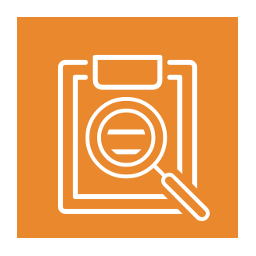
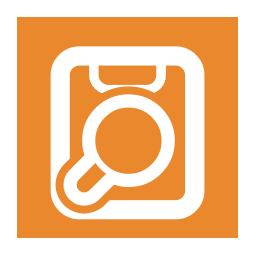
AppImage追加 アイコン変更

Changed region(s): [[0.1875, 0.1562, 0.8438, 0.875]]

diff --git a/ClipboardIndicator/About.xaml b/ClipboardIndicator/About.xaml
@@ -7,7 +7,6 @@
     xmlns:mc="http://schemas.openxmlformats.org/markup-compatibility/2006"
     Title="{Binding AssemblyName, Mode=OneWay, StringFormat=\{0\} のバージョン情報}"
     d:DataContext="{d:DesignInstance {x:Type local:ViewModel}}"
-    Icon="Resources/App.ico"
     ResizeMode="NoResize"
     SizeToContent="WidthAndHeight"
     mc:Ignorable="d">
@@ -87,7 +86,7 @@
                 <LineBreak />
                 <Run Text="使い方の詳しい情報は" />
                 <Hyperlink
-                    NavigateUri="https://tnlauncher.blogspot.jp/"
+                    NavigateUri="https://github.com/TN8001/ClipboardIndicator/"
                     RequestNavigate="Hyperlink_RequestNavigate"
                     ToolTip="{Binding NavigateUri, RelativeSource={RelativeSource Self}}">
                     <Run Text="こちら" />
